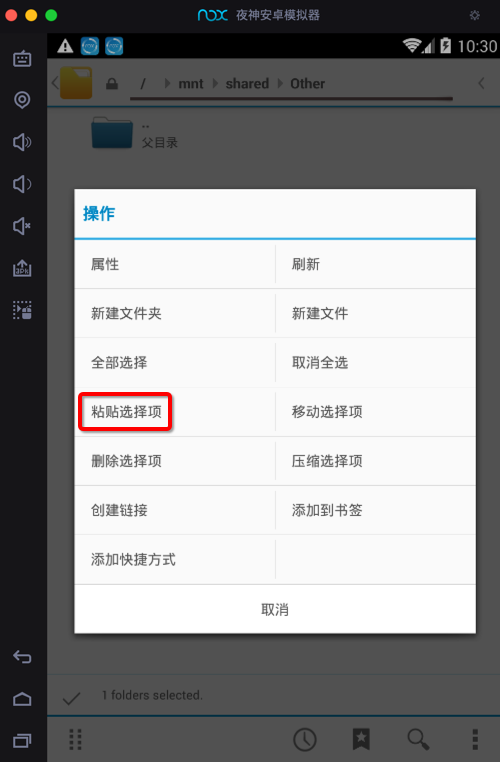
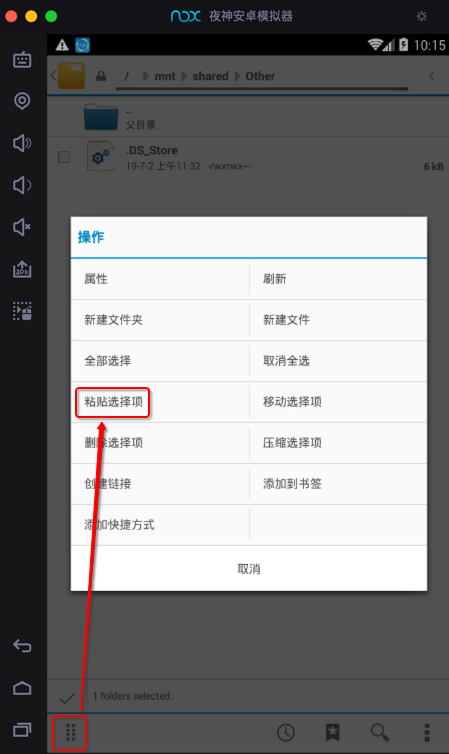
1. update jadx and others details

diff --git a/src/android_crack_tech/how_apk_to_java_src/2_or_3_steps/2_1_dex_to_java.md b/src/android_crack_tech/how_apk_to_java_src/2_or_3_steps/2_1_dex_to_java.md
@@ -1,28 +1,16 @@
-# 3. jar转换出java
+# 2.1 dex转java
 
-## 准备
+`jadx`可以直接从`dex`导出`java`源码
 
-* 前面一步从`dex`转换得到的`jar`文件
-  * ![com.huili.readingclub8825612-dex2jar.jar](../../../assets/img/to_decode_jar_file.png)
-* 选择合适的反编译器：`jadx`
-  * 用于从`jar`转换出`java`源代码
-  * 网上很多人提到了用的比较广的：`JD-GUI`
-    * 经过实测，基本够用，但不够完美
-  * 后续自己测试了多个其他的反编译器
-  * 最终结论如下：
-    * `Jadx` > `Procyon` > `CFR` > `JD-GUI`
-      * 详见：[常见反编译器对比 · 安卓应用的安全和破解](http://book.crifan.com/books/android_app_security_crack/website/android_crack_tool/decompiler/common_decompiler_compare.html)
-  * 所以此处选用：`jadx`
-* 下载`jadx`
-  * 从[这里](https://github.com/skylot/jadx/releases)下载最新版的`jadx`
-    * 比如：
-      * [jadx-0.9.0.zip](https://github.com/skylot/jadx/releases/download/v0.9.0/jadx-0.9.0.zip)
-    * 解压后得到：
-      * `jadx`：命令行工具
-      * `jadx-gui`：带图形界面的
-        * 双击即可运行
+## 下载`jadx`
 
-## 详细步骤
+* 从[这里](https://github.com/skylot/jadx/releases)下载最新版的`jadx`
+  * 比如：
+    * [jadx-0.9.0.zip](https://github.com/skylot/jadx/releases/download/v0.9.0/jadx-0.9.0.zip)
+  * 解压后得到：
+    * `jadx`：命令行工具
+    * `jadx-gui`：带图形界面的
+      * 双击即可运行
 
 此处想要用`jadx`去从`jar`中导出代码，有两种方式：
 
@@ -35,8 +23,20 @@
 
 切换到要导出代码的目录，已有dex文件要导出，则可以直接运行：
 
+语法：
+
 ```bash
-jadx-0.9.0/bin/jadx to_decode_dex_file.dex -d .
+bin/jadx dex_file.dex -d output_folder
+```
+
+举例：
+
+```bash
+jadx-0.9.0/bin/jadx dex_file.dex -d .
+
+../../../../../../reverse_engineering/jadx/jadx-1.0.0/bin/jadx ../../apk_to_dex/com.ishowedu.child.peiyin/com.ishowedu.child.peiyin8392664.dex -d com.ishowedu.child.peiyin8392664_java
+
+../../../../../reverse_engineering/jadx/jadx-1.0.0/bin/jadx ../dex_to_jar/com.ishowedu.child.peiyin9201516-dex2jar.jar -d .
 ```
 
 即可转换出源代码到当前目录下，输出有：
@@ -138,3 +138,41 @@ drwxr-xr-x  13 crifan  staff   416B  4 29 15:30 sources
 其他的一些，比如腾讯乐固加密了的，最终转换出来的jar，去打开后只能看到腾讯乐固的代码：
 
 ![](../../../assets/img/jd_gui_jar_show_tencent_legu.png)
+
+## 注意事项
+
+### `jadx`不能从`jar`导出`java`，否则会报错
+
+举例：
+
+```bash
+../../../../../reverse_engineering/jadx/jadx-1.0.0/bin/jadx ../dex_to_jar/com.ishowedu.child.peiyin9201516-dex2jar.jar -d .
+INFO  - loading ...
+INFO  - converting to dex: com.ishowedu.child.peiyin9201516-dex2jar.jar ...
+ERROR - jadx error: Error load file: ../dex_to_jar/com.ishowedu.child.peiyin9201516-dex2jar.jar
+jadx.core.utils.exceptions.JadxRuntimeException: Error load file: ../dex_to_jar/com.ishowedu.child.peiyin9201516-dex2jar.jar
+    at jadx.api.JadxDecompiler.loadFiles(JadxDecompiler.java:138)
+    at jadx.api.JadxDecompiler.load(JadxDecompiler.java:102)
+    at jadx.cli.JadxCLI.processAndSave(JadxCLI.java:32)
+    at jadx.cli.JadxCLI.main(JadxCLI.java:18)
+Caused by: jadx.core.utils.exceptions.DecodeException: java class to dex conversion error:
+ dx exception: Translation has been interrupted
+    at jadx.core.utils.files.InputFile.loadFromJar(InputFile.java:191)
+    at jadx.core.utils.files.InputFile.searchDexFiles(InputFile.java:82)
+    at jadx.core.utils.files.InputFile.addFilesFrom(InputFile.java:40)
+    at jadx.api.JadxDecompiler.loadFiles(JadxDecompiler.java:136)
+    ... 3 common frames omitted
+Caused by: jadx.core.utils.exceptions.JadxException: dx exception: Translation has been interrupted
+    at jadx.core.utils.files.JavaToDex.convert(JavaToDex.java:63)
+    at jadx.core.utils.files.InputFile.loadFromJar(InputFile.java:182)
+    ... 6 common frames omitted
+Caused by: java.lang.RuntimeException: Translation has been interrupted
+    at com.android.dx.command.dexer.Main.processAllFiles(Main.java:614)
+    at com.android.dx.command.dexer.Main.runMultiDex(Main.java:365)
+    at com.android.dx.command.dexer.Main.runDx(Main.java:286)
+    at jadx.core.utils.files.JavaToDex.convert(JavaToDex.java:49)
+    ... 7 common frames omitted
+Caused by: java.lang.InterruptedException: Too many errors
+    at com.android.dx.command.dexer.Main.processAllFiles(Main.java:606)
+    ... 10 common frames omitted
+```

diff --git a/src/android_crack_tool/decompiler/common_decompilers/procyon/README.md b/src/android_crack_tool/decompiler/common_decompilers/procyon/README.md
@@ -3,6 +3,43 @@
 * bitbucket官网
   * [mstrobel / Procyon — Bitbucket](https://bitbucket.org/mstrobel/procyon)
 
+## Luyten vs Procyon
+
+从jar包导出代码：
+
+* Luyten
+  * 带GUI图形界面：可直接查看代码
+  * 也可用来Save all导出全部代码
+    * 但是速度比较慢
+      * 当代码很大时：几十分钟还没导出完毕
+* Procyon
+  * 不带界面，只是一个jar包：
+    * `procyon-decompiler-0.5.34.jar`
+  * 可直接用来从你的jar包导出源码
+    * 当代码很大时：速度很快，1分钟左右即可搞定
+
+## 用Procyon从jar导出java源码
+
+下面介绍用Procyon作为命令行工具去导出一个jar包文件为java源代码的过程：
+
+### 下载Procyon的jar包
+
+比如 [procyon-decompiler-0.5.34.jar](https://bitbucket.org/mstrobel/procyon/downloads/procyon-decompiler-0.5.34.jar)
+
+### 用procyon的jar包从你的jar包转换出java代码
+
+语法：
+
+`java -jar /path/to/procyon-decompiler-0.5.34.jar -jar your_to_decompile.jar -o outputFolderName`
+
+举例：
+
+```bash
+java -jar  /Users/crifan/dev/dev_tool/android/reverse_engineering/Procyon/procyon-decompiler-0.5.34.jar -jar com.huili.readingclub8825612-dex2jar.jar -o com.huili.readingclub8825612
+
+java -jar  /Users/crifan/dev/dev_tool/android/reverse_engineering/Procyon/procyon-decompiler-0.5.36.jar -jar ../../dex_to_jar/com.ishowedu.child.peiyin8392664-dex2jar.jar -o com.ishowedu.child.peiyin8392664_java
+```
+
 ## 基于`Procyon`的`Luyten`中的菜单中参数是来自`procyon-decompiler`命令行的参数
 
 从`procyon-decompiler`的help帮助信息是：
@@ -133,18 +170,3 @@ Usage: <main class> [options] <type names or class/jar files>
 ```
 
 其他以此类推，都是一样的逻辑：把命令行工具的参数，用菜单选项的形式展示和支持出来了。
-
-## Luyten vs Procyon
-
-从jar包导出代码：
-
-* Luyten
-  * 带GUI图形界面：可直接查看代码
-  * 也可用来Save all导出全部代码
-    * 但是速度比较慢
-      * 当代码很大时：几十分钟还没导出完毕
-* Procyon
-  * 不带界面，只是一个jar包：
-    * procyon-decompiler-0.5.34.jar
-  * 可直接用来从你的jar包导出源码
-    * 当代码很大时：速度很快，1分钟左右即可搞定

diff --git a/src/android_crack_tech/how_apk_to_java_src/2_or_3_steps/2_2_2_jar_to_java.md b/src/android_crack_tech/how_apk_to_java_src/2_or_3_steps/2_2_2_jar_to_java.md
@@ -1,0 +1,33 @@
+# 2.2.2 jar转换出java
+
+## 准备
+
+* 前面一步从`dex`转换得到的`jar`文件
+  * ![com.huili.readingclub8825612-dex2jar.jar](../../../assets/img/to_decode_jar_file.png)
+* 选择合适的反编译器：`procyon`
+  * 用于从`jar`转换出`java`源代码
+  * 网上很多人提到了用的比较广的：`JD-GUI`
+    * 经过实测，基本够用，但不够完美
+  * 后续自己测试了多个其他的反编译器
+  * 最终结论如下：
+    * `Jadx` > `Procyon` > `CFR` > `JD-GUI`
+      * 详见：[常见反编译器对比 · 安卓应用的安全和破解](http://book.crifan.com/books/android_app_security_crack/website/android_crack_tool/decompiler/common_decompiler_compare.html)
+      * 注：此处`jadx`其实是，直接从`dex`转`java`，而其他几个反编译器是从`jar`转`java`，略有不同。请使用时稍微注意区别。
+  * 所以此处选用：`procyon`
+    * 关于反编译效果更好的`jadx`，详见前面章节。
+
+## 详细步骤
+
+比如用procyon反编译器从jar中导出java源码
+
+语法：
+
+```bash
+java -jar /path/to/your/procyon-decompiler-0.5.36.jar -jar jav_file.jar -o output_folder
+```
+
+举例：
+
+```bash
+java -jar  /Users/crifan/dev/dev_tool/android/reverse_engineering/Procyon/procyon-decompiler-0.5.36.jar -jar ../../dex_to_jar/com.ishowedu.child.peiyin8392664-dex2jar.jar -o com.ishowedu.child.peiyin8392664_java
+```

diff --git a/src/SUMMARY.md b/src/SUMMARY.md
@@ -24,10 +24,11 @@
   * [如何从apk破解出java源码](android_crack_tech/how_apk_to_java_src/README.md)
     * [破解apk概述](android_crack_tech/how_apk_to_java_src/crack_apk_intro.md)
     * [一步: apk->java](android_crack_tech/how_apk_to_java_src/1_step_apk_to_java.md)
-    * [三步: app->dex->jar->java](android_crack_tech/how_apk_to_java_src/3_steps/README.md)
-      * [1. app导出dex](android_crack_tech/how_apk_to_java_src/3_steps/1_app_dump_dex.md)
-      * [2. dex转换出jar](android_crack_tech/how_apk_to_java_src/3_steps/2_dex_to_jar.md)
-      * [3. jar转换出java](android_crack_tech/how_apk_to_java_src/3_steps/3_jar_to_java.md)
+    * [两或三步: app->dex->jar->java](android_crack_tech/how_apk_to_java_src/2_or_3_steps/README.md)
+      * [1. app导出dex](android_crack_tech/how_apk_to_java_src/2_or_3_steps/1_app_dump_dex.md)
+      * [2.1 dex转java](android_crack_tech/how_apk_to_java_src/2_or_3_steps/2_1_dex_to_java.md)
+      * [2.2.1 dex转换出jar](android_crack_tech/how_apk_to_java_src/2_or_3_steps/2_2_1_dex_to_jar.md)
+      * [2.2.2 jar转换出java](android_crack_tech/how_apk_to_java_src/2_or_3_steps/2_2_2_jar_to_java.md)
 * [常见安卓破解工具](android_crack_tool/README.md)
   * [从app导出dex](android_crack_tool/app_to_dex/README.md)
     * [FDex2](android_crack_tool/app_to_dex/fdex2.md)

diff --git a/src/android_crack_tech/how_apk_to_java_src/2_or_3_steps/README.md b/src/android_crack_tech/how_apk_to_java_src/2_or_3_steps/README.md
@@ -1,4 +1,4 @@
-# 三步: app->dex->jar->java
+# 两步或三步: app->dex->jar->java
 
 ## 前提
 
@@ -12,7 +12,7 @@
 
 ## 思路
 
-1. 从运行中的安卓app导出dex文件
+1. 从`apk`到`dex`：从运行中的安卓app导出dex文件
    * 事先安装安卓的apk到`已root`的安卓`真机`/安卓`模拟器`
    * 在安卓中已经安装了`Xposed`等`Hook框架`中
    * 再去`Xposed`中安装`FDex2`/`DumpDex`等插件
@@ -20,8 +20,13 @@
    * 运行安卓app
      * 自动导出我们要的`dex`文件
    * 从安卓（真机/模拟器）中拷贝出刚才导出的（往往是多个）`dex`文件
-2. 用`dex2jar`等工具从（包含了我们要的、和app业务逻辑相关的那个）`dex`文件中导出`jar`文件
-3. 用反编译器（`jadx`/`CFR`/`Procyon`/`JD-GUI`等）把`jar`转换出`java`源代码
+2. 从`dex`到`java`源码
+   * 一步： 比如用`jadx`支持直接从`dex`转换出`java`源代码
+   * 两步：
+     1. `dex`转`jar`
+        * 用`dex2jar`等工具从（包含了我们要的、和app业务逻辑相关的那个）`dex`文件中导出`jar`文件
+     2. `jar`转`java`源码
+      * 用反编译器（`CFR`/`Procyon`/`JD-GUI`等）把`jar`转换出`java`源代码
 
 ## 详细步骤
 

diff --git a/src/android_crack_tech/how_apk_to_java_src/1_step_apk_to_java.md b/src/android_crack_tech/how_apk_to_java_src/1_step_apk_to_java.md
@@ -18,7 +18,7 @@
 
 下载`jadx`：
 
-从[Releases · skylot/jadx](Releases · skylot/jadx)下载最新版本，比如[jadx-0.9.0.zip](https://github.com/skylot/jadx/releases/download/v0.9.0/jadx-0.9.0.zip)
+从[skylot/jadx: Dex to Java decompiler](https://github.com/skylot/jadx)的[releases页面](https://github.com/skylot/jadx/releases)下载最新版本，比如[jadx-0.9.0.zip](https://github.com/skylot/jadx/releases/download/v0.9.0/jadx-0.9.0.zip)
 
 解压得到：
 
@@ -29,9 +29,26 @@
 
 详见：[反编译器 jadx](http://book.crifan.com/books/android_app_security_crack/website/android_crack_tool/decompiler/common_decompilers/jadx.html)
 
-下面以`jadx-gui`(已被我改名为`JadxGUI`)为例去解释。
+## jadx命令行版
 
-## 详细步骤
+直接通过命令行去反编译，效率最高。
+
+语法：
+
+```bash
+jadx -d output_folder your_apk_file.apk
+```
+
+举例：
+
+```bash
+jadx/jadx-0.9.0/bin/jadx -d from_jadx_command xiaohuasheng-v1.5.apk
+jadx/jadx-0.9.0/bin/jadx -d exported_java_src mafengwo_ziyouxing.apk
+```
+
+## jadx gui图形界面版
+
+下面以`jadx-gui`(已被我改名为`JadxGUI`)为例去解释。
 
 对于此处v1.5这种没有加固的apk：
 

diff --git a/src/appendix/reference.md b/src/appendix/reference.md
@@ -172,3 +172,8 @@
 * [26款优秀的Android逆向工程工具 - 简书](https://www.jianshu.com/p/ef0b6f75c229)
 * [Application Hardening - Mobile App Hardening | Promon](https://promon.co/security-news/application-hardening/)
 * [Cydia Substrate使用手册 - 简书](https://www.jianshu.com/p/ba795ff3471a)
+* [看雪安全论坛 18年专注——顶级软件逆向论坛](https://bbs.pediy.com)
+* [一张图看懂Android编译流程 - 简书](https://www.jianshu.com/p/04eabba51db0)
+* [原创 如何使用Xposed+JustTrustMe来突破SSL Pinning-『WEB安全』-看雪安全论坛](https://bbs.pediy.com/thread-226435.htm)
+* [当你写爬虫抓不到APP请求包的时候该怎么办？【中级篇】 - 知乎](https://zhuanlan.zhihu.com/p/56397466)
+* [tls - What is certificate pinning? - Information Security Stack Exchange](https://security.stackexchange.com/questions/29988/what-is-certificate-pinning)

diff --git a/src/android_crack_tech/how_apk_to_java_src/2_or_3_steps/1_app_dump_dex.md b/src/android_crack_tech/how_apk_to_java_src/2_or_3_steps/1_app_dump_dex.md
@@ -90,6 +90,8 @@ total 81656
       * ![](../../../assets/img/browser_select_exported_folder.png)
     2. 切换到夜神用于和电脑共享的文件夹`/mnt/shared/Other`中去`操作` -> `粘贴选择项`
       * ![](../../../assets/img/browser_paste_selected.png)
+      * 然后会开始复制和粘贴：
+      * ![](../../../assets/img/performing_action_paste.png)
     3. 复制粘贴后，无法立即看到已拷贝的文件。回到上一级目录，再重新进来即可看到：
       * ![](../../../assets/img/browser_pasted_files.png)
   * 再去到PC（此处Mac）中找到共享根目录，并拷贝文件

diff --git a/src/android_crack_tech/how_apk_to_java_src/2_or_3_steps/2_2_1_dex_to_jar.md b/src/android_crack_tech/how_apk_to_java_src/2_or_3_steps/2_2_1_dex_to_jar.md
@@ -1,4 +1,4 @@
-# 2. dex转换出jar
+# 2.2.1 dex转换出jar
 
 ## 思路
 
@@ -15,7 +15,11 @@
 
 ## 详细步骤
 
-比如前面的`v3.4.8`版本的某安卓apk，经过前面一步导出了多个`dex`文件后，此处接着去用`dex2jar`去分别转换出`jar`。
+比如前面的`v3.4.8`版本的某安卓apk，经过前面一步导出了多个`dex`文件后，此处接着去用`dex2jar`去分别转换出`jar`：
+
+```bash
+d2j-dex2jar.sh -f dex_file.dex
+```
 
 期间，很多个`dex`转换`jar`的期间都会报错。
 

diff --git a/src/android_crack_tool/other_related_tool/android_hook_framework/cydia_substrate.md b/src/android_crack_tool/other_related_tool/android_hook_framework/cydia_substrate.md
@@ -8,6 +8,10 @@
   * 和`Xposed`类似的框架，用来安装各种插件，实现各种功能。
     * 比如可以：
       * 安装绕过ssl检测的插件，用来破解`ssl pinning`
+        * 关于安卓的app中的https：
+          * app内部启用了：
+            * `SSL Pinning`=`ssl certificate pinning`=`certificate pinning`
+              * =`ssl证书绑定`=证书绑定`
       * 此处也可以用来安装相关插件，导出安卓的dex文件
 * 特点
   * Hook底层方法非常方便

diff --git a/src/android_crack_tech/README.md b/src/android_crack_tech/README.md
@@ -17,6 +17,7 @@
     * 不同的加密和安全技术
       * 之前：`加固`=`安卓加固`=`安卓应用加固`=`Android app hardening`
         * =`加壳`
+          * 注：壳是一段保护软件不被非法修改或反编译的程序
         * 破解加壳所以叫：`去壳`=`脱壳`=`反加固`
     * 之前正常编译(`compile`=`compiling`)出apk的过程
       * 破解也常被叫：`反编译`=`decompile`=`decompiling`

diff --git a/src/android_crack_tool/other_assistant_tool/binary_editor/010editor.md b/src/android_crack_tool/other_assistant_tool/binary_editor/010editor.md
@@ -9,4 +9,4 @@
     * 查看和编辑二进制文件
       * 用来辅助破解apk：编辑dex文件
 * 截图
-  * ![](../../assets/img/010editor_ui_example.gif)
+  * ![](../../../assets/img/010editor_ui_example.gif)
